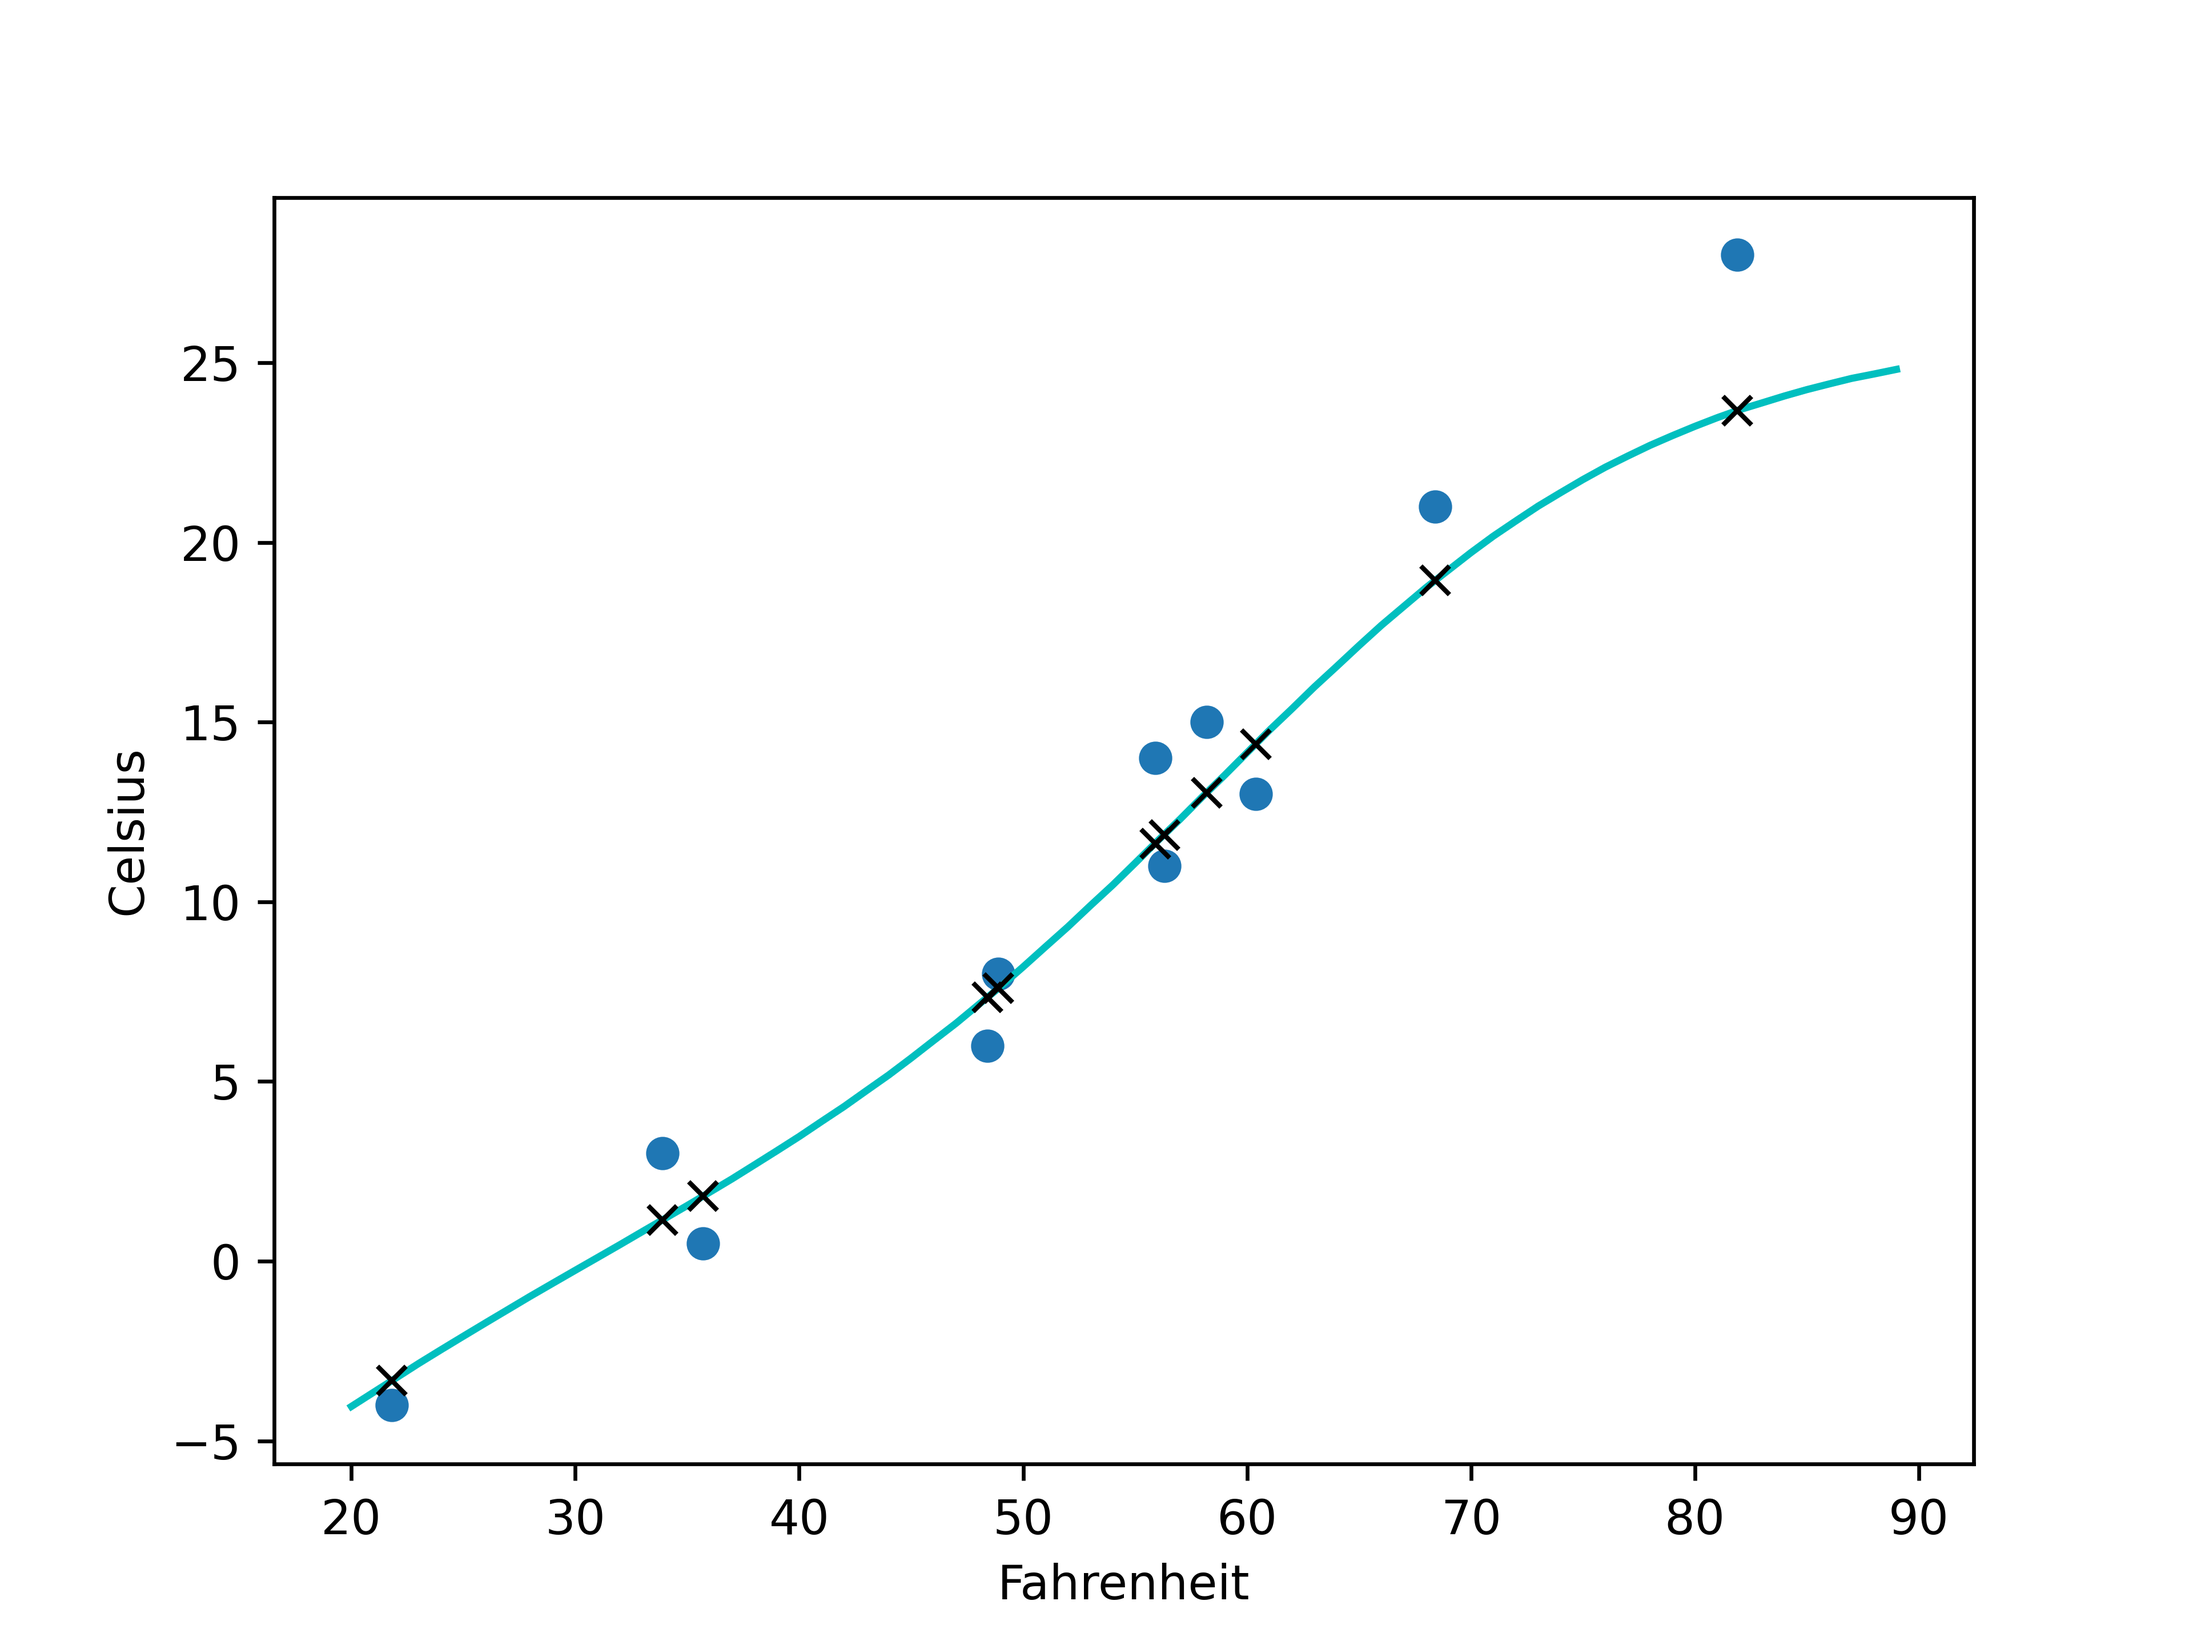
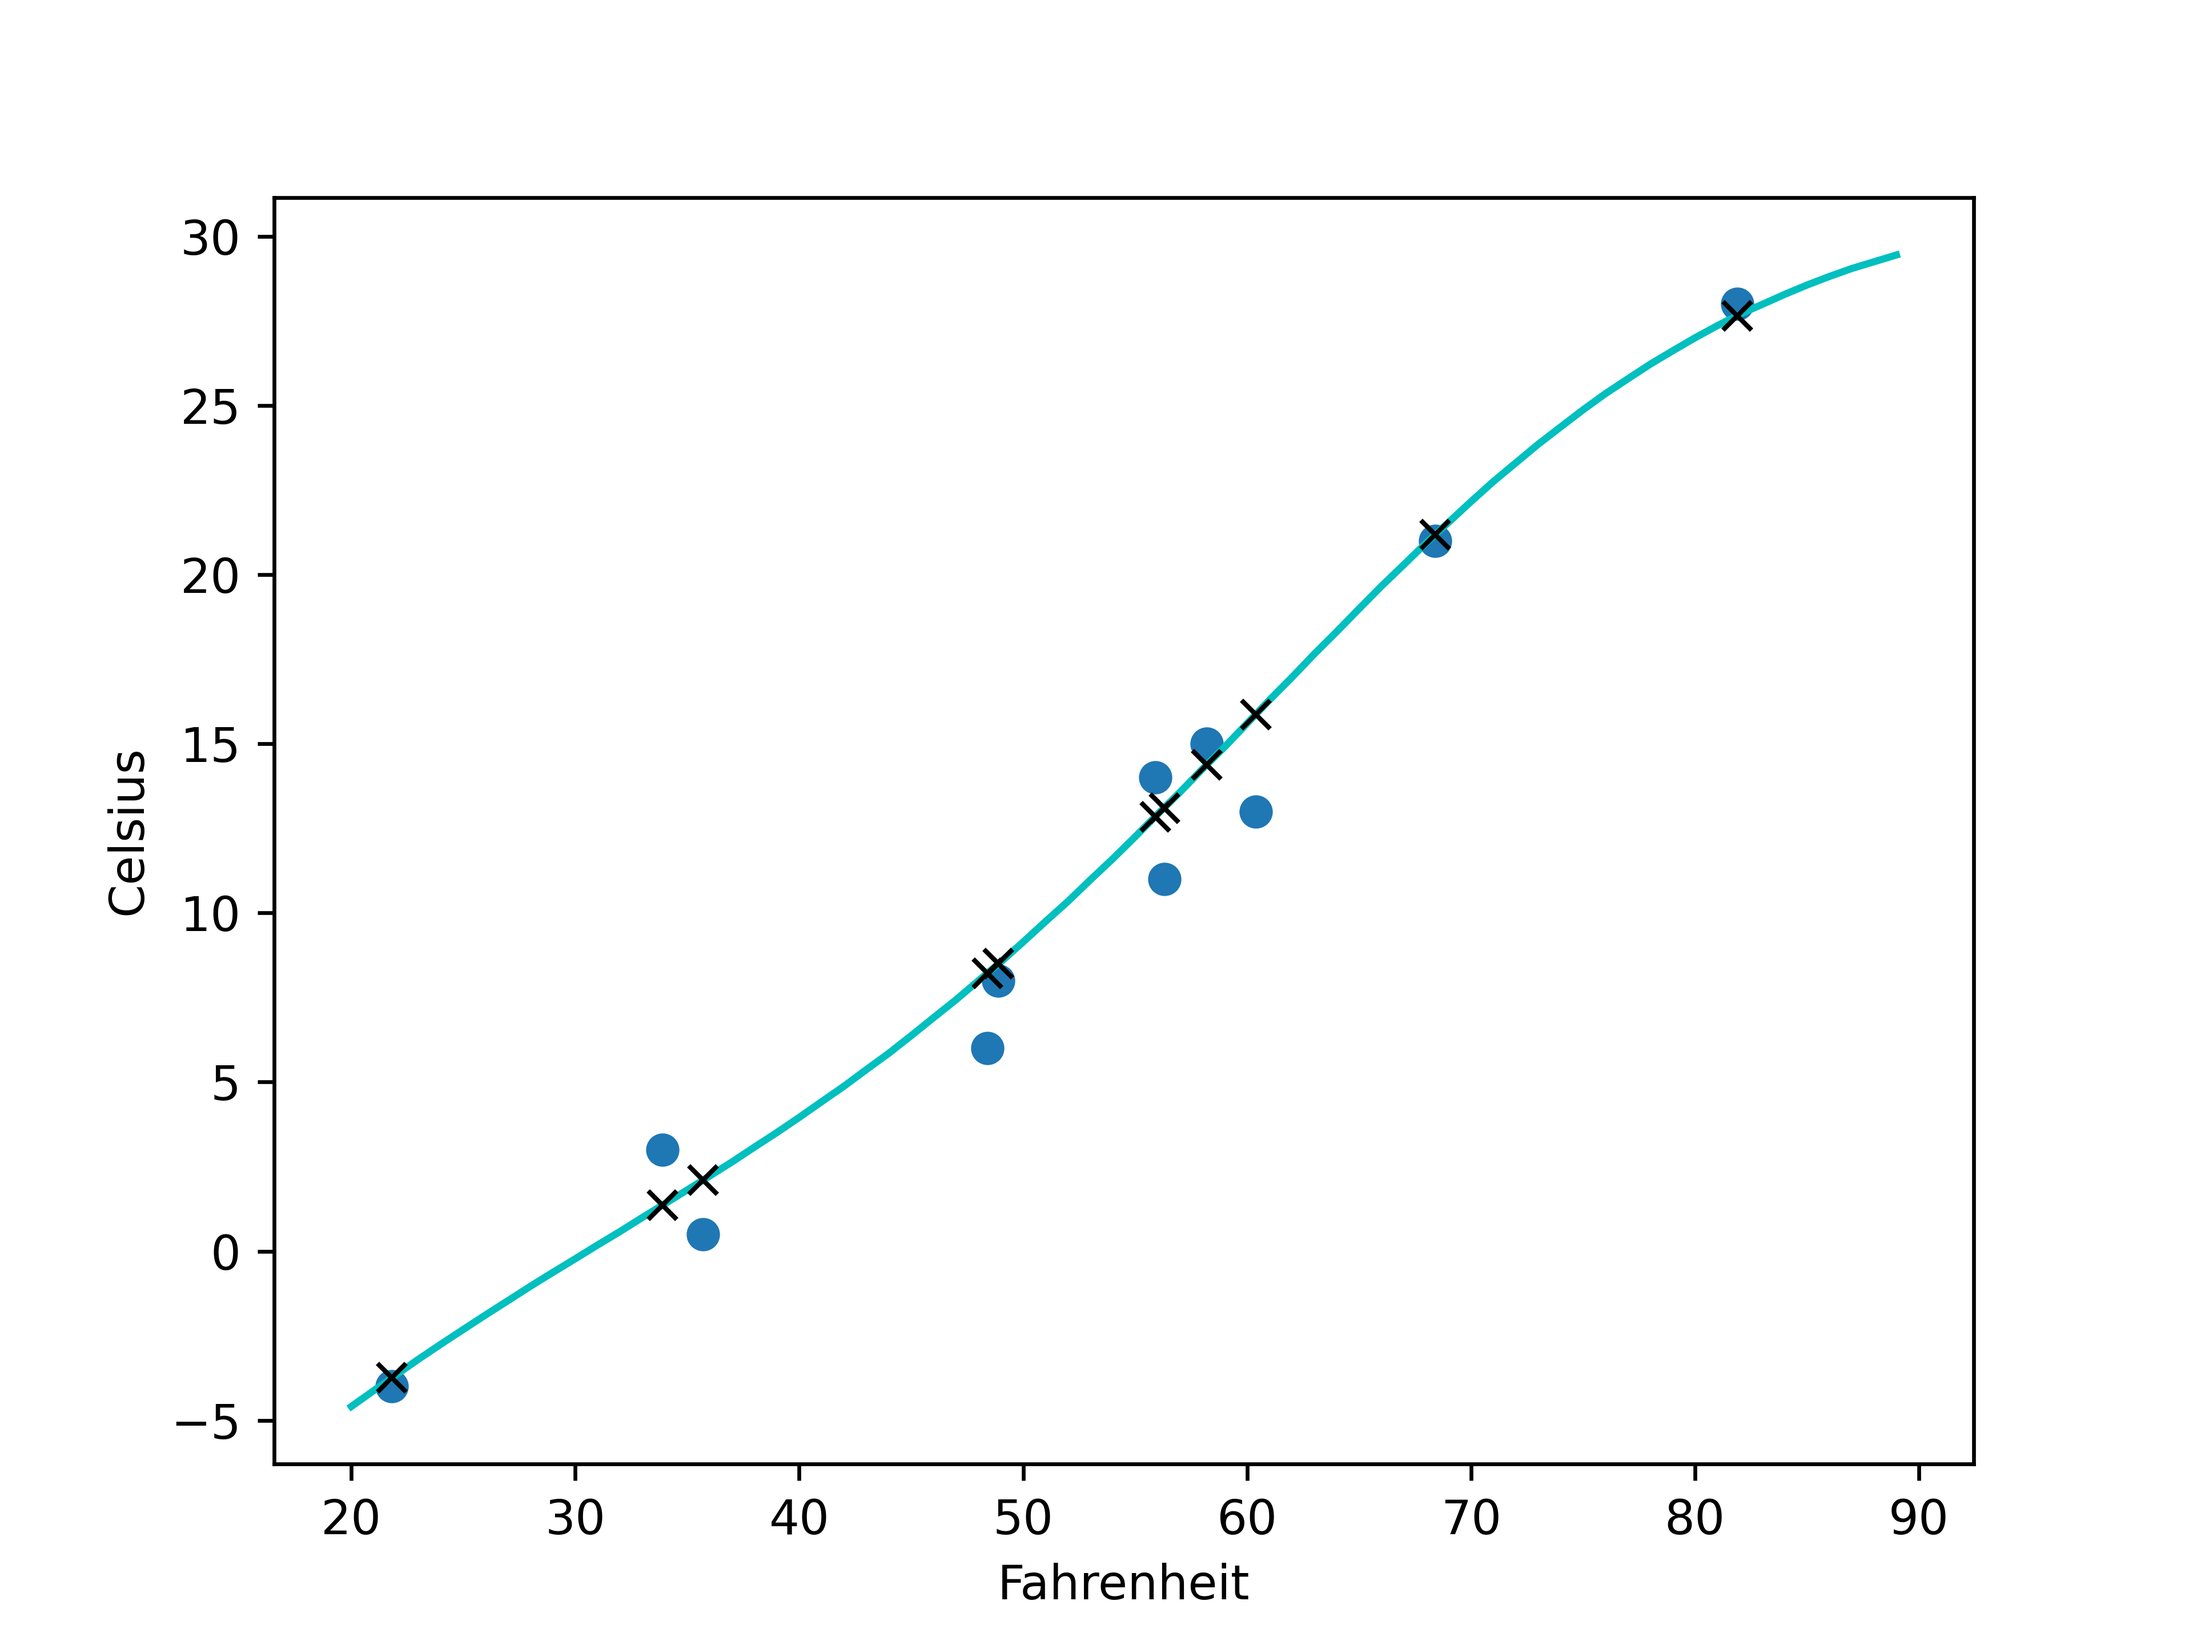
Refactored dense example

diff --git a/dense.py b/dense.py
@@ -2,7 +2,6 @@ from collections import OrderedDict
 
 import torch
 import torch.nn as nn
-import torch.optim as optim
 from matplotlib import pyplot as plt
 
 torch.set_printoptions(edgeitems=2, linewidth=75)
@@ -12,9 +11,10 @@ t_c = [0.5, 14.0, 15.0, 28.0, 11.0, 8.0, 3.0, -4.0, 6.0, 13.0, 21.0]
 t_u = [35.7, 55.9, 58.2, 81.9, 56.3, 48.9, 33.9, 21.8, 48.4, 60.4, 68.4]
 t_c = torch.tensor(t_c, device=device).unsqueeze(1)
 t_u = torch.tensor(t_u, device=device).unsqueeze(1)
-
+n_epochs = 5000
 n_samples = t_u.shape[0]
 n_val = int(0.2 * n_samples)
+loss_fn = nn.MSELoss()
 shuffled_indices = torch.randperm(n_samples)
 train_indices = shuffled_indices[:-n_val]
 val_indices = shuffled_indices[-n_val:]
@@ -25,34 +25,30 @@ t_c_val = t_c[val_indices]
 t_un_train = 0.1 * t_u_train
 t_un_val = 0.1 * t_u_val
 
-
-def training_loop(n_epochs, optimizer, model, loss_fn, t_u_train, t_u_val, t_c_train, t_c_val):
-    for epoch in range(1, n_epochs + 1):
-        t_p_train = model(t_u_train)
-        loss_train = loss_fn(t_p_train, t_c_train)
-        t_p_val = model(t_u_val)
-        loss_val = loss_fn(t_p_val, t_c_val)
-        optimizer.zero_grad()
-        loss_train.backward()
-        optimizer.step()
-        if epoch == 1 or epoch % 1000 == 0:
-            print(f"Epoch {epoch}, Training loss {loss_train.item():.4f},"
-                  f" Validation loss {loss_val.item():.4f}")
-
-
-seq_model = nn.Sequential(OrderedDict([
+model = nn.Sequential(OrderedDict([
     ('hidden_linear', nn.Linear(1, 8)),
     ('hidden_activation', nn.Tanh()),
     ('output_linear', nn.Linear(8, 1))
 ])).to(device=device)
-optimizer = optim.SGD(seq_model.parameters(), lr=1e-3)
-training_loop(n_epochs=5000, optimizer=optimizer, model=seq_model, loss_fn=nn.MSELoss(),
-              t_u_train=t_un_train, t_u_val=t_un_val, t_c_train=t_c_train, t_c_val=t_c_val)
+optimizer = torch.optim.SGD(model.parameters(), lr=1e-3)
+
+for epoch in range(1, n_epochs + 1):
+    t_p_train = model(t_un_train)
+    loss_train = loss_fn(t_p_train, t_c_train)
+    t_p_val = model(t_un_val)
+    loss_val = loss_fn(t_p_val, t_c_val)
+    optimizer.zero_grad()
+    loss_train.backward()
+    optimizer.step()
+    if epoch == 1 or epoch % 1000 == 0:
+        print(f"Epoch {epoch}, Training loss {loss_train.item():.4f},"
+              f" Validation loss {loss_val.item():.4f}")
+
 t_range = torch.arange(20., 90., device=device).unsqueeze(1)
 fig = plt.figure(dpi=600)
 plt.xlabel("Fahrenheit")
 plt.ylabel("Celsius")
 plt.plot(t_u.cpu().numpy(), t_c.cpu().numpy(), 'o')
-plt.plot(t_range.cpu().numpy(), seq_model(0.1 * t_range).cpu().detach().numpy(), 'c-')
-plt.plot(t_u.cpu().numpy(), seq_model(0.1 * t_u).cpu().detach().numpy(), 'kx')
+plt.plot(t_range.cpu().numpy(), model(0.1 * t_range).cpu().detach().numpy(), 'c-')
+plt.plot(t_u.cpu().numpy(), model(0.1 * t_u).cpu().detach().numpy(), 'kx')
 plt.savefig('function.png')
